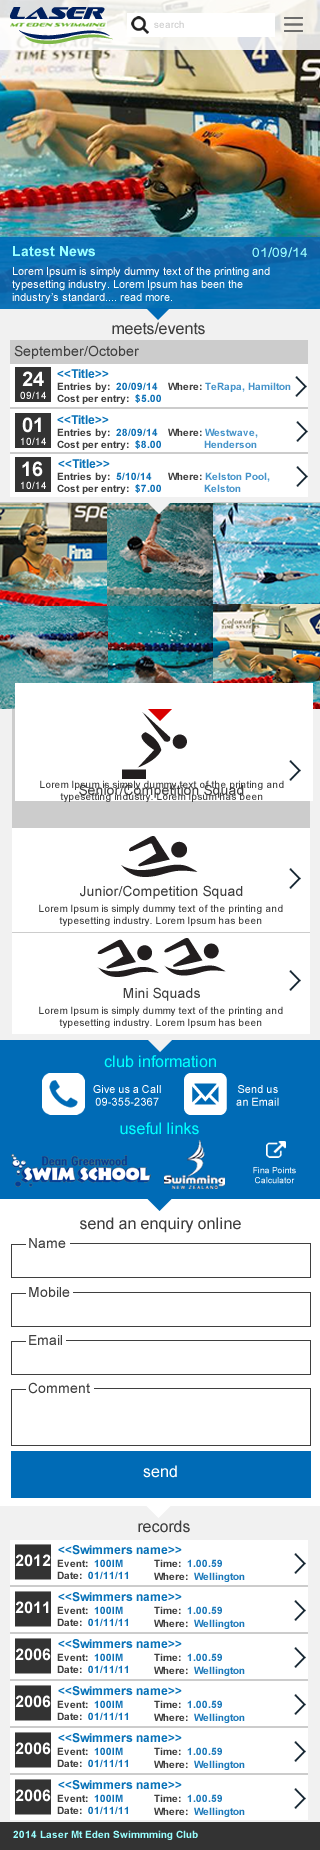
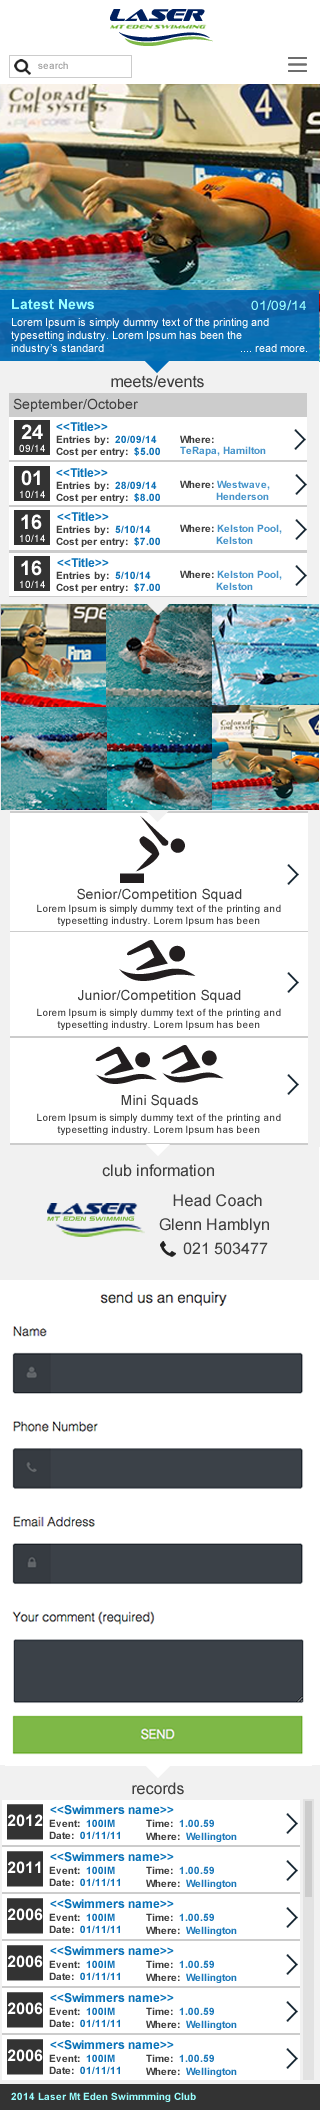
eleventh commit

diff --git a/js/unslider.js b/js/unslider.js
@@ -1,0 +1,195 @@
+/**
+ *   Unslider by @idiot
+ */
+ 
+(function($, f) {
+	//  If there's no jQuery, Unslider can't work, so kill the operation.
+	if(!$) return f;
+	
+	var Unslider = function() {
+		//  Set up our elements
+		this.el = f;
+		this.items = f;
+		
+		//  Dimensions
+		this.sizes = [];
+		this.max = [0,0];
+		
+		//  Current inded
+		this.current = 0;
+		
+		//  Start/stop timer
+		this.interval = f;
+				
+		//  Set some options
+		this.opts = {
+			speed: 500,
+			delay: 3000, // f for no autoplay
+			complete: f, // when a slide's finished
+			keys: !f, // keyboard shortcuts - disable if it breaks things
+			dots: f, // display â€¢â€¢â€¢â€¢oâ€¢ pagination
+			fluid: f // is it a percentage width?,
+		};
+		
+		//  Create a deep clone for methods where context changes
+		var _ = this;
+
+		this.init = function(el, opts) {
+			this.el = el;
+			this.ul = el.children('ul');
+			this.max = [el.outerWidth(), el.outerHeight()];			
+			this.items = this.ul.children('li').each(this.calculate);
+			
+			//  Check whether we're passing any options in to Unslider
+			this.opts = $.extend(this.opts, opts);
+			
+			//  Set up the Unslider
+			this.setup();
+			
+			return this;
+		};
+		
+		//  Get the width for an element
+		//  Pass a jQuery element as the context with .call(), and the index as a parameter: Unslider.calculate.call($('li:first'), 0)
+		this.calculate = function(index) {
+			var me = $(this),
+				width = me.outerWidth(), height = me.outerHeight();
+			
+			//  Add it to the sizes list
+			_.sizes[index] = [width, height];
+			
+			//  Set the max values
+			if(width > _.max[0]) _.max[0] = width;
+			if(height > _.max[1]) _.max[1] = height;
+		};
+		
+		//  Work out what methods need calling
+		this.setup = function() {
+			//  Set the main element
+			this.el.css({
+				overflow: 'hidden',
+				width: _.max[0],
+				height: this.items.first().outerHeight()
+			});
+			
+			//  Set the relative widths
+			this.ul.css({width: (this.items.length * 100) + '%', position: 'relative'});
+			this.items.css('width', (100 / this.items.length) + '%');
+			
+			if(this.opts.delay !== f) {
+				this.start();
+				this.el.hover(this.stop, this.start);
+			}
+			
+			//  Custom keyboard support
+			this.opts.keys && $(document).keydown(this.keys);
+			
+			//  Dot pagination
+			this.opts.dots && this.dots();
+			
+			//  Little patch for fluid-width sliders. Screw those guys.
+			if(this.opts.fluid) {
+				var resize = function() {
+					_.el.css('width', Math.min(Math.round((_.el.outerWidth() / _.el.parent().outerWidth()) * 100), 100) + '%');
+				};
+				
+				resize();
+				$(window).resize(resize);
+			}
+			
+			if(this.opts.arrows) {
+				this.el.parent().append('<p class="arrows"><span class="prev">â†</span><span class="next">â†’</span></p>')
+					.find('.arrows span').click(function() {
+						$.isFunction(_[this.className]) && _[this.className]();
+					});
+			};
+			
+			//  Swipe support
+			if($.event.swipe) {
+				this.el.on('swipeleft', _.prev).on('swiperight', _.next);
+			}
+		};
+		
+		//  Move Unslider to a slide index
+		this.move = function(index, cb) {
+			//  If it's out of bounds, go to the first slide
+			if(!this.items.eq(index).length) index = 0;
+			if(index < 0) index = (this.items.length - 1);
+			
+			var target = this.items.eq(index);
+			var obj = {height: target.outerHeight()};
+			var speed = cb ? 5 : this.opts.speed;
+			
+			if(!this.ul.is(':animated')) {			
+				//  Handle those pesky dots
+				_.el.find('.dot:eq(' + index + ')').addClass('active').siblings().removeClass('active');
+
+				this.el.animate(obj, speed) && this.ul.animate($.extend({left: '-' + index + '00%'}, obj), speed, function(data) {
+					_.current = index;
+					$.isFunction(_.opts.complete) && !cb && _.opts.complete(_.el);
+				});
+			}
+		};
+		
+		//  Autoplay functionality
+		this.start = function() {
+			_.interval = setInterval(function() {
+				_.move(_.current + 1);
+			}, _.opts.delay);
+		};
+		
+		//  Stop autoplay
+		this.stop = function() {
+			_.interval = clearInterval(_.interval);
+			return _;
+		};
+		
+		//  Keypresses
+		this.keys = function(e) {
+			var key = e.which;
+			var map = {
+				//  Prev/next
+				37: _.prev,
+				39: _.next,
+				
+				//  Esc
+				27: _.stop
+			};
+			
+			if($.isFunction(map[key])) {
+				map[key]();
+			}
+		};
+		
+		//  Arrow navigation
+		this.next = function() { return _.stop().move(_.current + 1) };
+		this.prev = function() { return _.stop().move(_.current - 1) };
+		
+		this.dots = function() {
+			//  Create the HTML
+			var html = '<ol class="dots">';
+				$.each(this.items, function(index) { html += '<li class="dot' + (index < 1 ? ' active' : '') + '">' + (index + 1) + '</li>'; });
+				html += '</ol>';
+			
+			//  Add it to the Unslider
+			this.el.addClass('has-dots').append(html).find('.dot').click(function() {
+				_.move($(this).index());
+			});
+		};
+	};
+	
+	//  Create a jQuery plugin
+	$.fn.unslider = function(o) {
+		var len = this.length;
+		
+		//  Enable multiple-slider support
+		return this.each(function(index) {
+			//  Cache a copy of $(this), so it 
+			var me = $(this);
+			var instance = (new Unslider).init(me, o);
+			
+			//  Invoke an Unslider instance
+			me.data('unslider' + (len > 1 ? '-' + (index + 1) : ''), instance);
+		});
+	};
+})(window.jQuery, false);

diff --git a/index.html b/index.html
@@ -18,6 +18,7 @@
         <link rel="stylesheet" href="css/gallery.css">
         <link rel="stylesheet" href="css/main-form.css">
         <link rel="stylesheet" href="css/form-normalize.css">
+        <link rel="stylesheet" href="css/club-info-banner.css">
         <link href="//maxcdn.bootstrapcdn.com/font-awesome/4.1.0/css/font-awesome.min.css" rel="stylesheet">
         <script src="js/vendor/modernizr-2.6.2.min.js"></script>
     </head>
@@ -324,34 +325,20 @@
 </div>
 </article>
 <svg id="grey-polygon" version="1.1" xmlns="http://www.w3.org/2000/svg" xmlns:xlink="http://www.w3.org/1999/xlink" width="20px" height="14px" xml:space="preserve">
- <polygon fill="#F1F1F1" points="10,14 0,0 20,0 "></polygon>
+ <polygon fill="white" points="10,14 0,0 20,0 "></polygon>
 </svg>
 <!-- End of Squads -->
 
 <!-- Start of Club Information -->
 <article>
 <div class="club-info">
-<div id="background-image" class="homepage-banner">
-<!-- Controls -->
-<div class="gallery items-3">
-  <div id="item-1" class="control-operator"></div>
-  <div id="item-2" class="control-operator"></div>
-  <div id="item-3" class="control-operator"></div>
-  <div class="gallery autoplay items-3">
+  <h3>club information</h3>
+<div class="banner">
+    <ul>
+        <li>Head Coach</br>Glenn Hamblyn</br><img src="img/Laser-Mt-Eden.png" style="width:32%; margin-left: -7.5em; margin-top: -3.5em;"alt="laser mt eden swim club"><i class="fa fa-phone" style="margin-left: 1.5em;"></i> 021 503477</li>
 
-<figure class="item">
-    <a href="#">
-    
-    </a>
-  </figure>
- 
-  
-  <div class="controls">
-    <a href="" class="control-button">•</a>
-    <a href="" class="control-button">•</a>
-    <a href="" class="control-button">•</a>
-   </div> 
-  </div>
+        <li style="margin-left: 5em;">Dean Greenwood</br>Swim School</br><img src="img/DeanGreenWoodSwimSchool.fw.png" style="width:35%; padding-left: 5em; margin-left: -7em; margin-top: -3.5em;"alt="DGSS"><i class="fa fa-phone" style="margin-left: 2em;"></i> (09) 630 1123</li>
+    </ul>
 </div>
 </div>
 </article>
@@ -526,11 +513,14 @@
 
         <script src="//ajax.googleapis.com/ajax/libs/jquery/1.10.2/jquery.min.js"></script>
         <script>window.jQuery || document.write('<script src="js/vendor/jquery-1.10.2.min.js"><\/script>')</script>
+        <script src="//code.jquery.com/jquery-latest.min.js"></script>
+        <script src="//unslider.com/unslider.min.js"></script>
         <script src="js/search.js"></script>
         <script src="js/form-main.js"></script>
         <script src="js/plugins.js"></script>
         <script src="js/main.js"></script>
         <script src="js/latest-news-textlimit.js"></script>
+        <script src="js/unslider.js"></script>
         
 
         <!-- Google Analytics: change UA-XXXXX-X to be your site's ID. -->

diff --git a/css/main.css b/css/main.css
@@ -398,7 +398,7 @@ span #i{
   margin-left: 12em;
 }
 #grey-polygon{
-    color: #F1F1F1;
+    color: white;
   position: absolute;
   z-index: 1000;
   margin-top: -0.6em;
@@ -627,7 +627,7 @@ span #i{
 
 article .club-info{
   background-color: #F1F1F1;
-  height: 18em;
+  height: 12em;
   font-family: sans-serif;
   font-weight: 100;
 
@@ -637,8 +637,8 @@ article .club-info{
 }
 
 .club-info h3{
-  color: #99FFFF;
-  margin-left: 28%;
+  color: #222;
+  text-align: center;
   padding-top: 1em;
 
 
@@ -743,7 +743,8 @@ input[type="submit"] {
     border-radius: 0.1em;
     -moz-border-radius: 0.1em;
     -webkit-border-radius: 0.1em;
-    background-color: rgba(0,107,182,0.75);
+    /*background-color: rgba(0,107,182,0.75);*/
+    background-color: #7EB847;
     color: #eee;
     font-weight: lighter;
    

diff --git a/css/club-info-banner.css b/css/club-info-banner.css
@@ -1,0 +1,29 @@
+.banner { 
+	position: relative; 
+	overflow: auto; 
+}
+    .banner li { 
+    	list-style: none; 
+    }
+        .banner ul li:nth-child(1) { 
+        	display: block;
+        	float: left; 
+        	font-family: sans-serif;
+        	margin-top: -0.5em;
+        	margin-left: 1.5em;
+        	z-index: 1000;
+        	height: 6em;
+        	font-size: 1.2em;
+        	text-align: center;
+        }
+        .banner ul li:nth-child(2) { 
+        	display: block;
+        	float: right; 
+        	font-family: sans-serif;
+        	margin-top: -6em;
+        	
+        	z-index: 1000;
+        	height: 12em;
+        	font-size: 1.2em;
+        	text-align: center;
+        }

diff --git a/css/form-normalize.css b/css/form-normalize.css
@@ -404,6 +404,9 @@ textarea {
     vertical-align: baseline; /* 3 */
     *vertical-align: middle; /* 3 */
 }
+textarea{
+    margin-top: 1em;
+}
 
 /**
  * Address Firefox 3+ setting `line-height` on `input` using `!important` in

diff --git a/js/main.js b/js/main.js
@@ -30,3 +30,8 @@ $(function(){
 
 });
 
+//Club information banner/unslider
+
+$(function() {
+    $('.banner').unslider();
+});

diff --git a/css/form-main.css b/css/form-main.css
@@ -188,6 +188,7 @@ p {
 }
 textarea{
     width: 17.5em;
+    
 }
 
 #login form input[type="submit"] {
